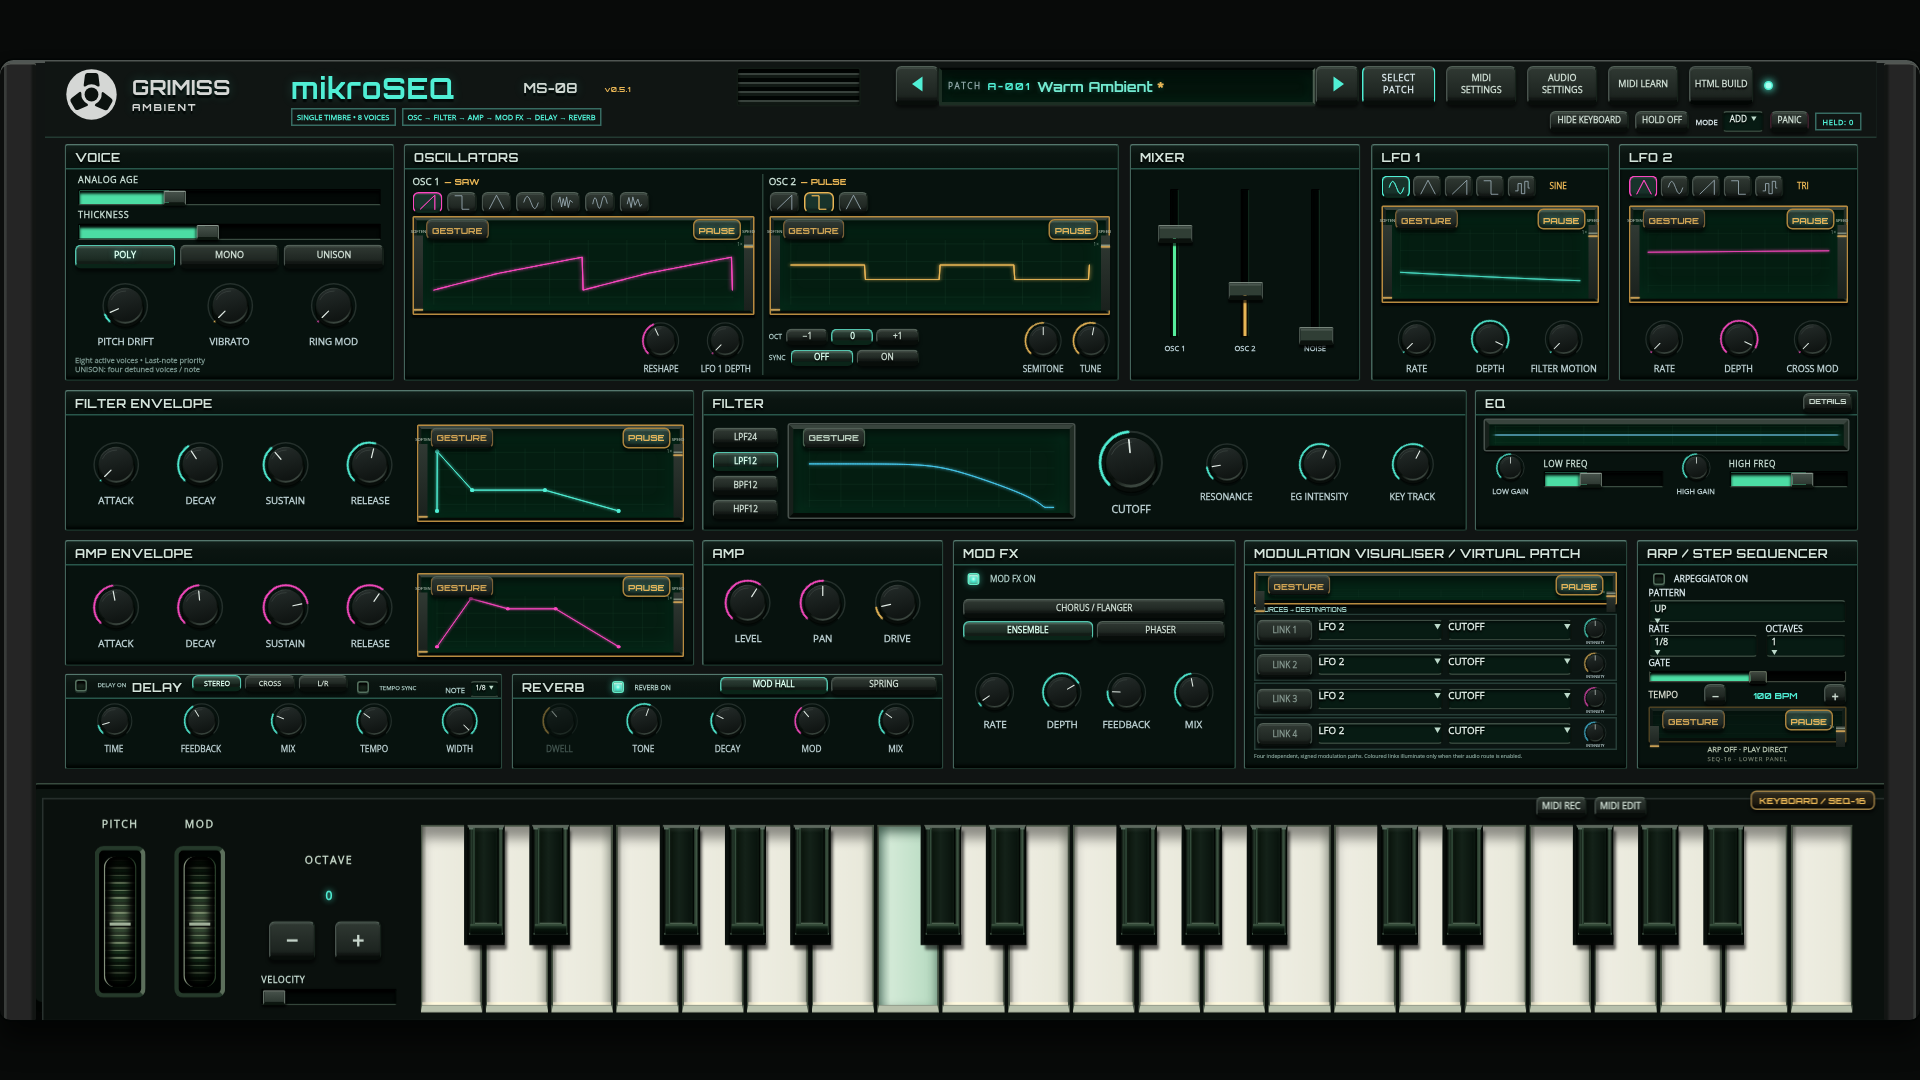
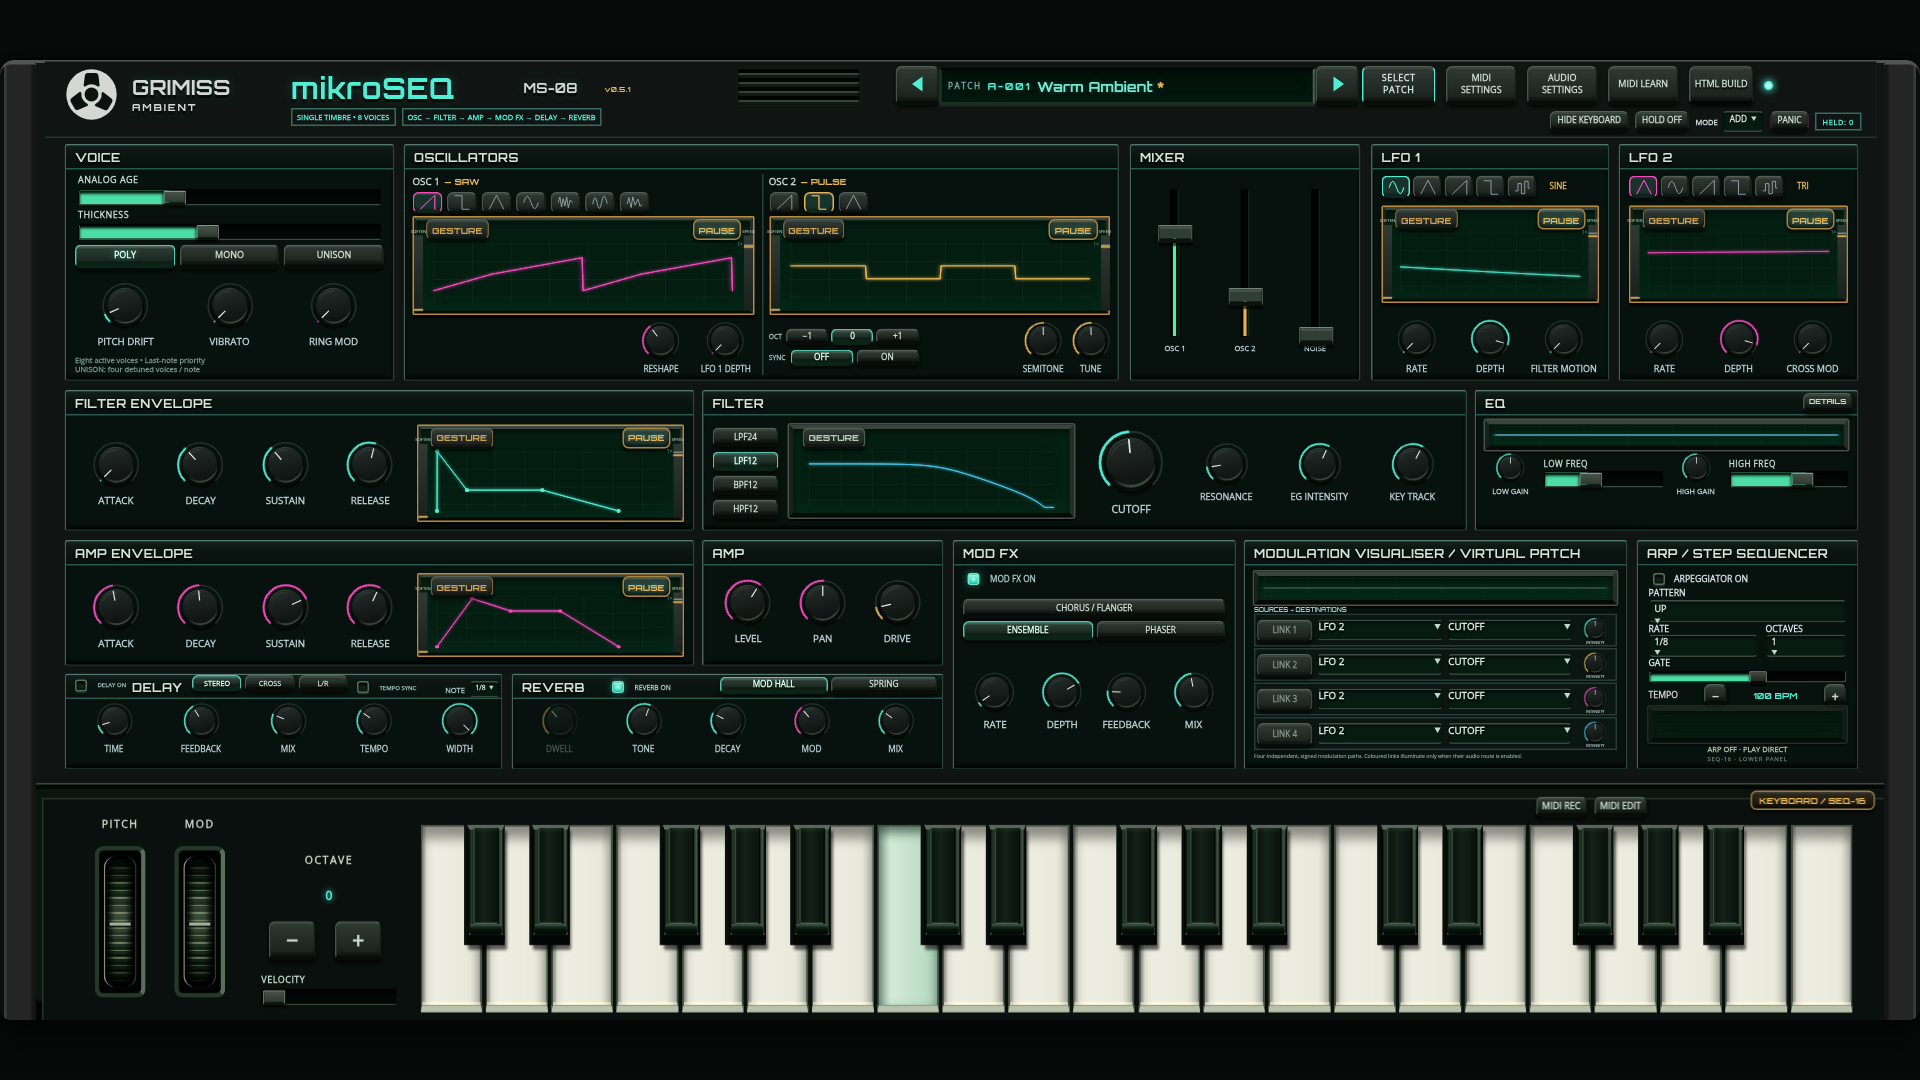
Remove virtual patch and arpeggiator gesture functions

diff --git a/GRIMISS_mAMB_Synth_v0_3_3_Filter_Fix.html b/GRIMISS_mAMB_Synth_v0_3_3_Filter_Fix.html
@@ -1875,8 +1875,8 @@ const MICROSEQ_GESTURE_DISPLAYS={
  modfx:{retired:true,name:'MOD FX',selector:'.mod-panel > h2',proxy:true,keys:['fxModRate','fxModDepth','fxModFeedback','fxModMix'],x:'fxModRate',y:'fxModDepth'},
  delay:{retired:true,name:'DELAY',selector:'.delay-panel > h2',proxy:true,keys:['fxDelayTime','fxDelayFeedback','fxDelayMix','fxDelayWidth'],x:'fxDelayTime',y:'fxDelayFeedback'},
  reverb:{retired:true,name:'REVERB',selector:'.reverb-panel > h2',proxy:true,keys:['fxReverbDecay','fxReverbTone','fxReverbMix','fxReverbMod','fxReverbDwell'],x:'fxReverbDecay',y:'fxReverbTone'},
- routing:{name:'MODULATION VISUALIZER',selector:'#routing-scope',keys:['route0Amount','route1Amount','route2Amount','route3Amount'],x:'route0Amount',y:'route1Amount'},
- arp:{name:'ARPEGGIATOR',selector:'#arp-scope',keys:['arpGate'],x:'arpGate',y:null}
+ routing:{retired:true,name:'MODULATION VISUALIZER',selector:'#routing-scope',keys:['route0Amount','route1Amount','route2Amount','route3Amount'],x:'route0Amount',y:'route1Amount'},
+ arp:{retired:true,name:'ARPEGGIATOR',selector:'#arp-scope',keys:['arpGate'],x:'arpGate',y:null}
 };
 function microseqGestureDefaults(id){const d=MICROSEQ_GESTURE_DISPLAYS[id];return{points:[],duration:0,x:d.x,y:d.y,speed:1,soften:0,direction:'forward',transition:'jump',transitionTime:1,enabled:false,playing:false};}
 function microseqGestureDocument(){return{version:1,displays:Object.fromEntries(Object.keys(MICROSEQ_GESTURE_DISPLAYS).map(id=>[id,microseqGestureDefaults(id)]))};}

diff --git a/dist/GRIMISS_mAMB_v0_5_1.html b/dist/GRIMISS_mAMB_v0_5_1.html
@@ -1875,8 +1875,8 @@ const MICROSEQ_GESTURE_DISPLAYS={
  modfx:{retired:true,name:'MOD FX',selector:'.mod-panel > h2',proxy:true,keys:['fxModRate','fxModDepth','fxModFeedback','fxModMix'],x:'fxModRate',y:'fxModDepth'},
  delay:{retired:true,name:'DELAY',selector:'.delay-panel > h2',proxy:true,keys:['fxDelayTime','fxDelayFeedback','fxDelayMix','fxDelayWidth'],x:'fxDelayTime',y:'fxDelayFeedback'},
  reverb:{retired:true,name:'REVERB',selector:'.reverb-panel > h2',proxy:true,keys:['fxReverbDecay','fxReverbTone','fxReverbMix','fxReverbMod','fxReverbDwell'],x:'fxReverbDecay',y:'fxReverbTone'},
- routing:{name:'MODULATION VISUALIZER',selector:'#routing-scope',keys:['route0Amount','route1Amount','route2Amount','route3Amount'],x:'route0Amount',y:'route1Amount'},
- arp:{name:'ARPEGGIATOR',selector:'#arp-scope',keys:['arpGate'],x:'arpGate',y:null}
+ routing:{retired:true,name:'MODULATION VISUALIZER',selector:'#routing-scope',keys:['route0Amount','route1Amount','route2Amount','route3Amount'],x:'route0Amount',y:'route1Amount'},
+ arp:{retired:true,name:'ARPEGGIATOR',selector:'#arp-scope',keys:['arpGate'],x:'arpGate',y:null}
 };
 function microseqGestureDefaults(id){const d=MICROSEQ_GESTURE_DISPLAYS[id];return{points:[],duration:0,x:d.x,y:d.y,speed:1,soften:0,direction:'forward',transition:'jump',transitionTime:1,enabled:false,playing:false};}
 function microseqGestureDocument(){return{version:1,displays:Object.fromEntries(Object.keys(MICROSEQ_GESTURE_DISPLAYS).map(id=>[id,microseqGestureDefaults(id)]))};}

diff --git a/dist/GRIMISS_mAMB_v0_7.html b/dist/GRIMISS_mAMB_v0_7.html
@@ -1875,8 +1875,8 @@ const MICROSEQ_GESTURE_DISPLAYS={
  modfx:{retired:true,name:'MOD FX',selector:'.mod-panel > h2',proxy:true,keys:['fxModRate','fxModDepth','fxModFeedback','fxModMix'],x:'fxModRate',y:'fxModDepth'},
  delay:{retired:true,name:'DELAY',selector:'.delay-panel > h2',proxy:true,keys:['fxDelayTime','fxDelayFeedback','fxDelayMix','fxDelayWidth'],x:'fxDelayTime',y:'fxDelayFeedback'},
  reverb:{retired:true,name:'REVERB',selector:'.reverb-panel > h2',proxy:true,keys:['fxReverbDecay','fxReverbTone','fxReverbMix','fxReverbMod','fxReverbDwell'],x:'fxReverbDecay',y:'fxReverbTone'},
- routing:{name:'MODULATION VISUALIZER',selector:'#routing-scope',keys:['route0Amount','route1Amount','route2Amount','route3Amount'],x:'route0Amount',y:'route1Amount'},
- arp:{name:'ARPEGGIATOR',selector:'#arp-scope',keys:['arpGate'],x:'arpGate',y:null}
+ routing:{retired:true,name:'MODULATION VISUALIZER',selector:'#routing-scope',keys:['route0Amount','route1Amount','route2Amount','route3Amount'],x:'route0Amount',y:'route1Amount'},
+ arp:{retired:true,name:'ARPEGGIATOR',selector:'#arp-scope',keys:['arpGate'],x:'arpGate',y:null}
 };
 function microseqGestureDefaults(id){const d=MICROSEQ_GESTURE_DISPLAYS[id];return{points:[],duration:0,x:d.x,y:d.y,speed:1,soften:0,direction:'forward',transition:'jump',transitionTime:1,enabled:false,playing:false};}
 function microseqGestureDocument(){return{version:1,displays:Object.fromEntries(Object.keys(MICROSEQ_GESTURE_DISPLAYS).map(id=>[id,microseqGestureDefaults(id)]))};}

diff --git a/src/gesture-core.js b/src/gesture-core.js
@@ -26,8 +26,8 @@ const MICROSEQ_GESTURE_DISPLAYS={
  modfx:{retired:true,name:'MOD FX',selector:'.mod-panel > h2',proxy:true,keys:['fxModRate','fxModDepth','fxModFeedback','fxModMix'],x:'fxModRate',y:'fxModDepth'},
  delay:{retired:true,name:'DELAY',selector:'.delay-panel > h2',proxy:true,keys:['fxDelayTime','fxDelayFeedback','fxDelayMix','fxDelayWidth'],x:'fxDelayTime',y:'fxDelayFeedback'},
  reverb:{retired:true,name:'REVERB',selector:'.reverb-panel > h2',proxy:true,keys:['fxReverbDecay','fxReverbTone','fxReverbMix','fxReverbMod','fxReverbDwell'],x:'fxReverbDecay',y:'fxReverbTone'},
- routing:{name:'MODULATION VISUALIZER',selector:'#routing-scope',keys:['route0Amount','route1Amount','route2Amount','route3Amount'],x:'route0Amount',y:'route1Amount'},
- arp:{name:'ARPEGGIATOR',selector:'#arp-scope',keys:['arpGate'],x:'arpGate',y:null}
+ routing:{retired:true,name:'MODULATION VISUALIZER',selector:'#routing-scope',keys:['route0Amount','route1Amount','route2Amount','route3Amount'],x:'route0Amount',y:'route1Amount'},
+ arp:{retired:true,name:'ARPEGGIATOR',selector:'#arp-scope',keys:['arpGate'],x:'arpGate',y:null}
 };
 function microseqGestureDefaults(id){const d=MICROSEQ_GESTURE_DISPLAYS[id];return{points:[],duration:0,x:d.x,y:d.y,speed:1,soften:0,direction:'forward',transition:'jump',transitionTime:1,enabled:false,playing:false};}
 function microseqGestureDocument(){return{version:1,displays:Object.fromEntries(Object.keys(MICROSEQ_GESTURE_DISPLAYS).map(id=>[id,microseqGestureDefaults(id)]))};}

diff --git a/SCREEN_ONLY_GESTURES.md b/SCREEN_ONLY_GESTURES.md
@@ -1,13 +1,15 @@
 # Screen-only gestures and side-by-side oscillators
 
 Gesture controls and playback now belong only to existing visualization screens:
-OSC 1, OSC 2, filter, filter envelope, amplifier envelope, LFO 1, LFO 2,
-modulation visualizer and arpeggiator. All nine can play independently together.
+OSC 1, OSC 2, filter, filter envelope, amplifier envelope, LFO 1 and LFO 2. All seven can play independently together.
 Mod FX, Delay and Reverb have no screens: their gesture buttons, popup choices
 and gesture playback are removed. Their original audio effects and manual controls remain. EQ gesture controls and
 playback are also removed; its response display, Details view, gain and frequency
 controls remain fully operational. Existing EQ gesture paths are retained inactive
-with the other retired records.
+with the other retired records. Modulation/virtual patch and arpeggiator gestures
+are also removed. Their normal link controls, modulation display, arpeggiator
+controls and activity display remain; older gesture records cannot alter link
+intensity or arpeggiator gate.
 
 The complete XY/Automation section, its two pads, expansion and assignment dialogs
 are removed. Its width is reassigned to the oscillator panel. OSC 1 and OSC 2 now
@@ -22,7 +24,7 @@ top row, retaining their sizes; the lower synth and keyboard/SEQ dimensions rema
 
 ## Compatibility
 
-The version-1 gesture schema still validates and round-trips the seven retired
+The version-1 gesture schema still validates and round-trips the nine retired
 surface records and old XY assignment metadata. This avoids deleting stored
 performances or rejecting older patches. Retired records are excluded from the
 audio engine's active list and cannot preview or modulate anything, even if an old
@@ -40,7 +42,7 @@ FWD/BACK/PENDULUM, JUMP/SMOOTH, amber indicators and effective UI motion remain.
   sample-identical audio to no gestures at 44.1 and 48 kHz.
 - Remaining gestures retain sample-identical audio compared with the checkpoint.
 - All 100 factory sounds remain sample-identical to the earlier DSP reference.
-- Nine simultaneous screen gestures produce finite, non-silent audio alongside
+- Seven simultaneous screen gestures produce finite, non-silent audio alongside
   live input, MIDI, SEQ and ARP for a 60-second render; Panic releases ownership.
 - Browser checks cover screen-only buttons/editor choices, actual mouse and touch
   recording, soften/speed/pause, closed-popup animation, clear independence,
@@ -56,7 +58,7 @@ physical MIDI devices and tablet performance are not claimed as tested.
 Changed implementation: src/gesture-core.js, src/gesture-ui.js, src/gesture.css,
 src/interface.html, src/interface.js, src/coordinate-layout.js,
 src/reference-layout.json and src/workflow.js, plus standalone HTML builds.
-Tests are updated for nine eligible surfaces and removed XY UI, while preserving
+Tests are updated for seven eligible surfaces and removed XY UI, while preserving
 validation of all sixteen historical schema entries. New tests/screen-only-gestures.cjs
 covers inactive legacy data and actual audio. New screenshots and JSON results
 are retained in reports/ and tests/.
